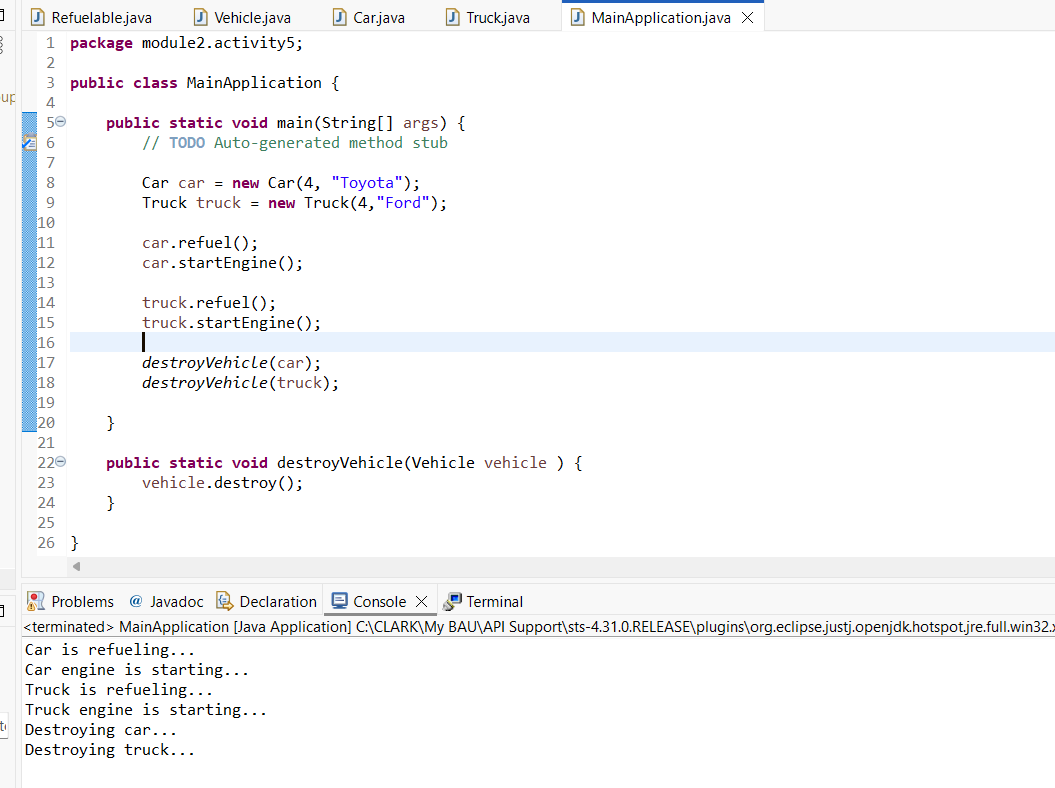
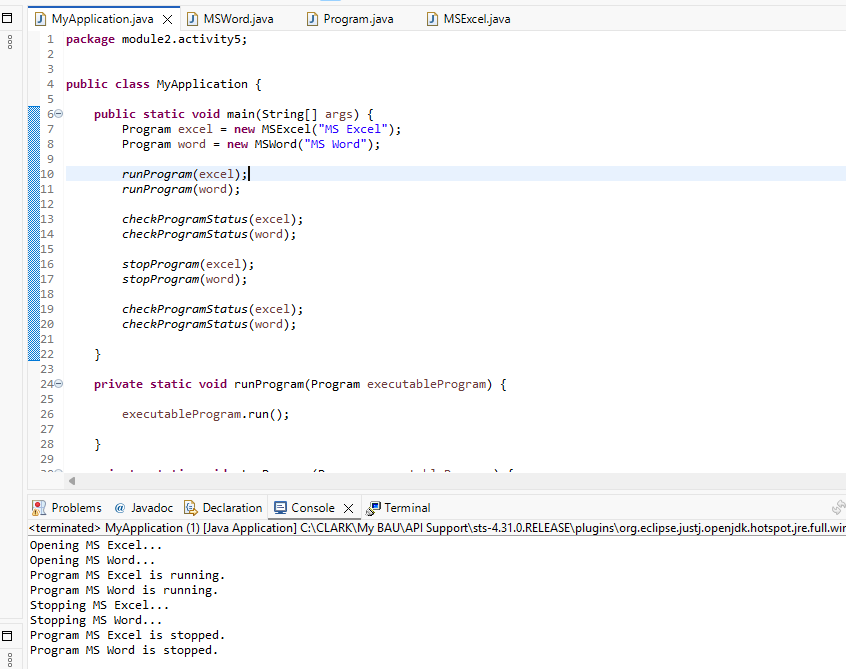
Updated M2 Activity 5

Changed region(s): [[0.0, 0.0, 0.7376, 0.7175], [0.0, 0.7474, 1.0, 1.0]]

diff --git a/MyApplication.java b/MyApplication.java
@@ -1,0 +1,49 @@
+package module2.activity5;
+
+
+public class MyApplication {
+
+	public static void main(String[] args) {
+		Program excel = new MSExcel("MS Excel");
+		Program word = new MSWord("MS Word");
+		
+		runProgram(excel);
+		runProgram(word);
+		
+		checkProgramStatus(excel);
+		checkProgramStatus(word);
+		
+		stopProgram(excel);
+		stopProgram(word);
+		
+		checkProgramStatus(excel);
+		checkProgramStatus(word);
+		
+	}
+	
+	private static void runProgram(Program executableProgram) {
+		
+		executableProgram.run();
+		
+	}
+	
+	private static void stopProgram(Program executableProgram) {
+		
+		executableProgram.stop();
+	}
+	
+	private static void checkProgramStatus(Program executableProgram) {
+		
+		if(executableProgram.getIsRunning() ) {
+			
+			System.out.println("Program " + executableProgram.getName() + " is running. ");
+			
+		} else {
+			
+			System.out.println("Program " + executableProgram.getName() + " is stopped. ");
+		}
+		
+	}
+
+
+}

diff --git a/Program.java b/Program.java
@@ -1,0 +1,42 @@
+package module2.activity5;
+
+public abstract class Program {
+	
+	private String name;
+	private boolean isRunning = false;
+	
+	public Program() {
+		
+	}
+	
+	public Program(String name) {
+		this.name = name;
+	}
+	
+	abstract void run();
+	abstract void stop();
+   
+//   <fill>;
+//   <fill>;
+//   <fill>;
+//   <fill>;
+   
+	public String getName() {
+		return name;
+	}
+
+	public void setName(String name) {
+		this.name = name;
+	}
+
+	public boolean getIsRunning() {
+		return isRunning;
+	}
+
+	public void setRunning(boolean isRunning) {
+		this.isRunning = isRunning;
+	}
+	
+	
+	
+}

diff --git a/MSExcel.java b/MSExcel.java
@@ -1,0 +1,27 @@
+package module2.activity5;
+
+
+public class MSExcel extends Program {
+	
+	public MSExcel(String name) {
+//		<fill>
+		super.setName(name);
+	}
+	
+	@Override
+	public void run() {
+		String message = "Opening MS Excel...";
+    //<fill>
+		super.setRunning(true);
+		
+		System.out.println(message);
+	}
+	
+	@Override
+	public void stop() {
+		String message = "Stopping MS Excel...";
+  //  <fill>
+		super.setRunning(false);
+		System.out.println(message);
+	}
+}

diff --git a/MSWord.java b/MSWord.java
@@ -1,0 +1,23 @@
+package module2.activity5;
+
+
+public class MSWord extends Program {
+	
+	public MSWord(String name) {
+//		this.setName(name);
+		super.setName(name);
+	}
+	
+	@Override
+	public void run() {
+		System.out.println("Opening MS Word...");
+		super.setRunning(true);
+	}
+	
+	@Override
+	public void stop() {
+		System.out.println("Stopping MS Word...");
+//      <fill>
+		super.setRunning(false);
+	}
+}
